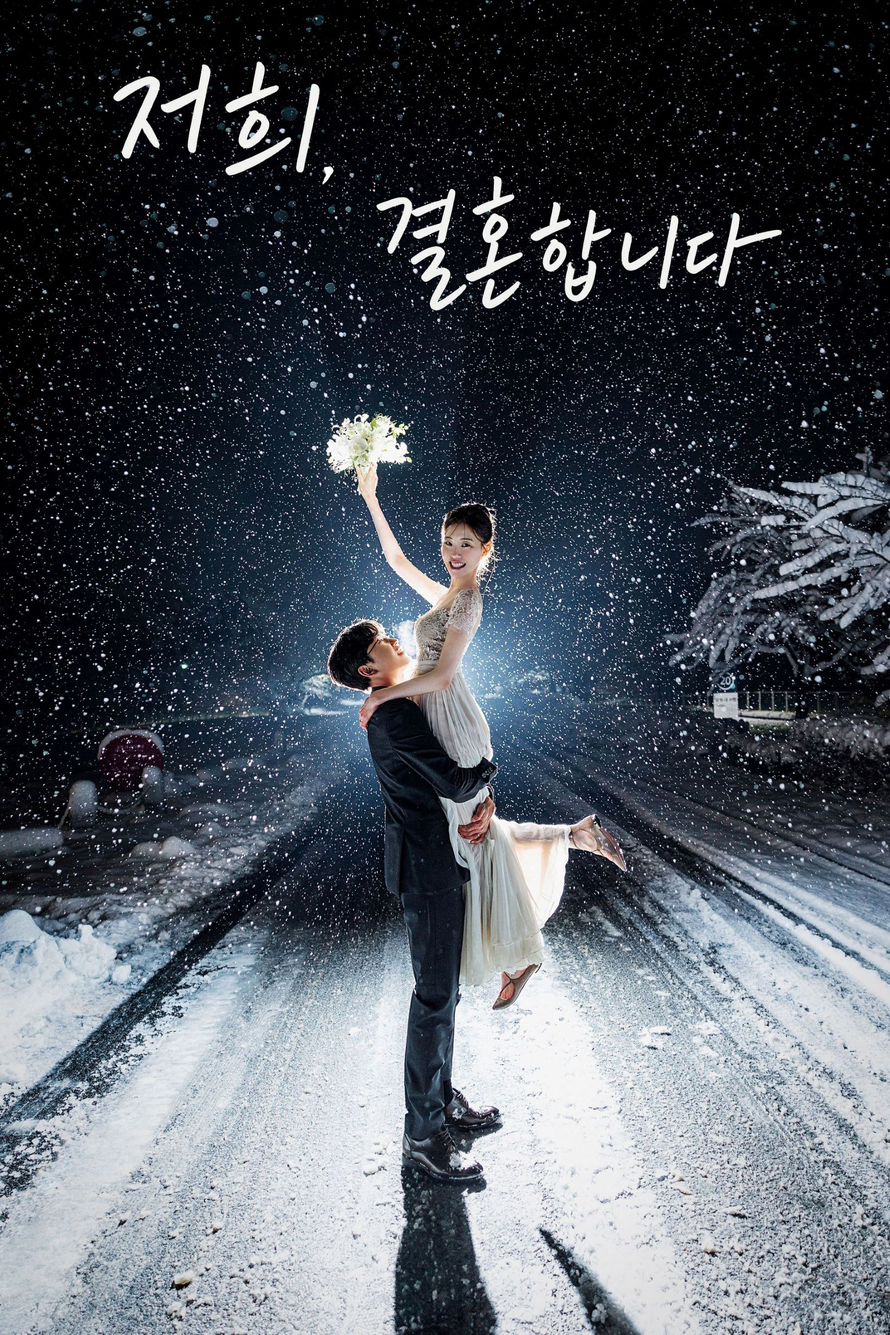
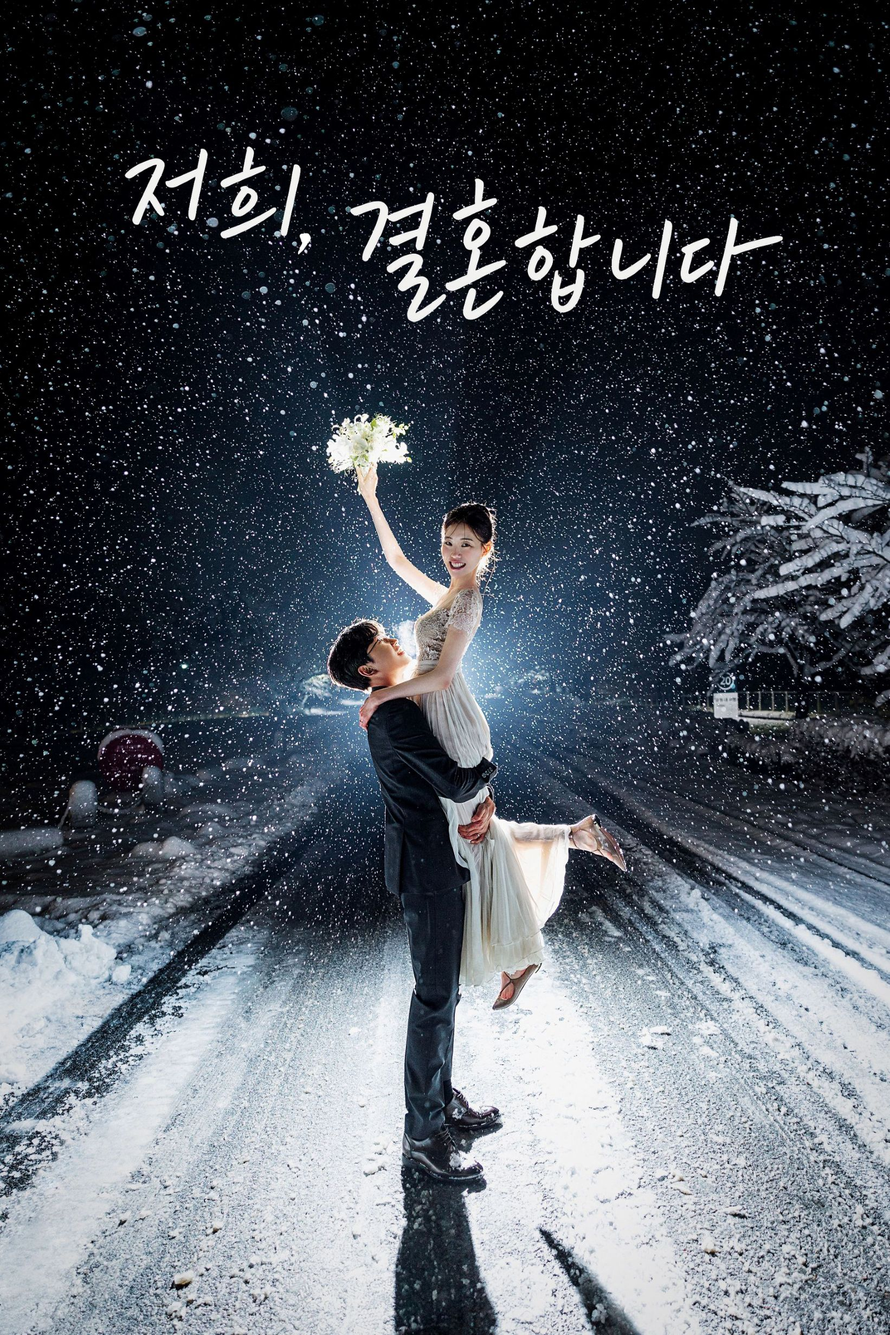
edit: wedding poster and dimmed photo

Changed region(s): [[0.4038, 0.1234, 0.8697, 0.2469], [0.1242, 0.0309, 0.3727, 0.1851]]

diff --git a/src/components/Main.tsx b/src/components/Main.tsx
@@ -946,7 +946,7 @@ function Main({ setComponent }: Props) {
               width: "100%",
               fontSize: "90%",
               lineHeight: "1.8",
-              paddingBottom: "3%",
+              paddingBottom: "2%",
             }}
           >
             저희의 새로운 시작을 축하해주시는
@@ -1087,9 +1087,10 @@ const Dimmed = styled.div`
   background: linear-gradient(
     to bottom,
     rgba(0, 0, 0, 0) 0%,
-    rgba(0, 0, 0, 0.17) 64%,
-    rgba(0, 0, 0, 0.44) 78%,
-    rgba(0, 0, 0, 0.66) 100%
+    rgba(0, 0, 0, 0.15) 63%,
+    // rgba(0, 0, 0, 0.32) 69%,
+    rgba(0, 0, 0, 0.6) 88%,
+    rgba(0, 0, 0, 0.7) 100%
   );
   width: 100%;
   height: 100%;
